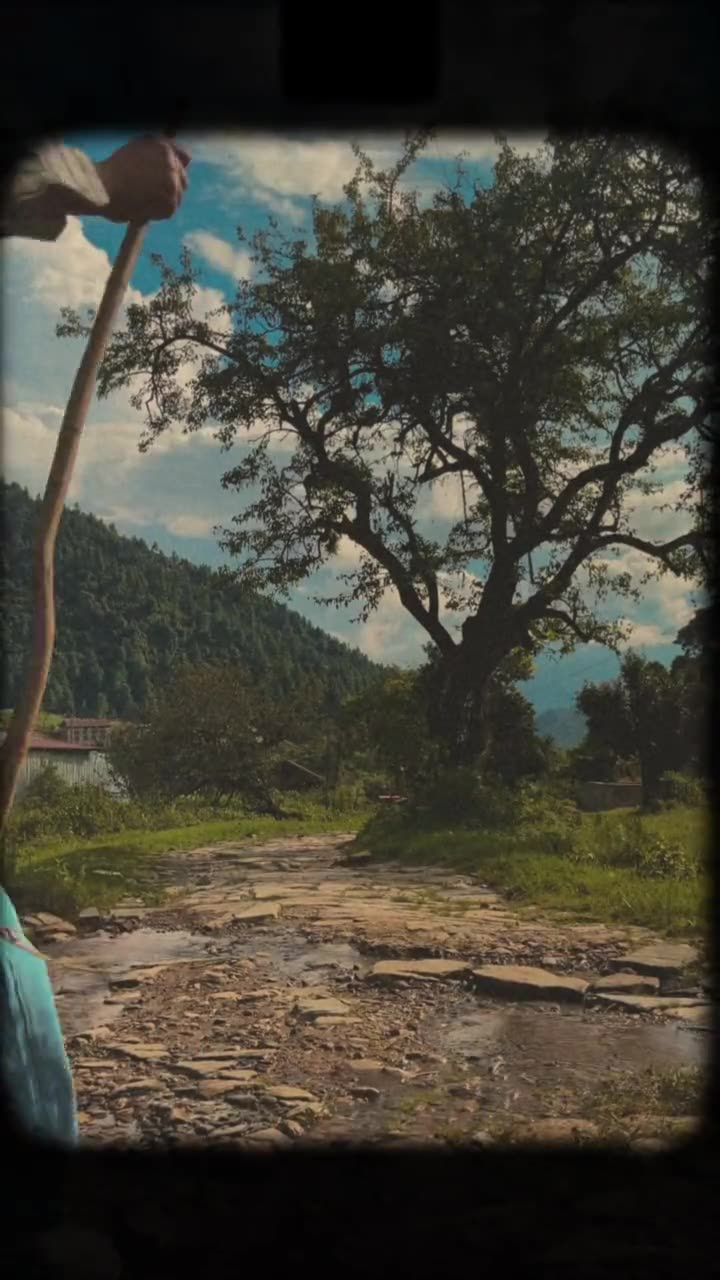
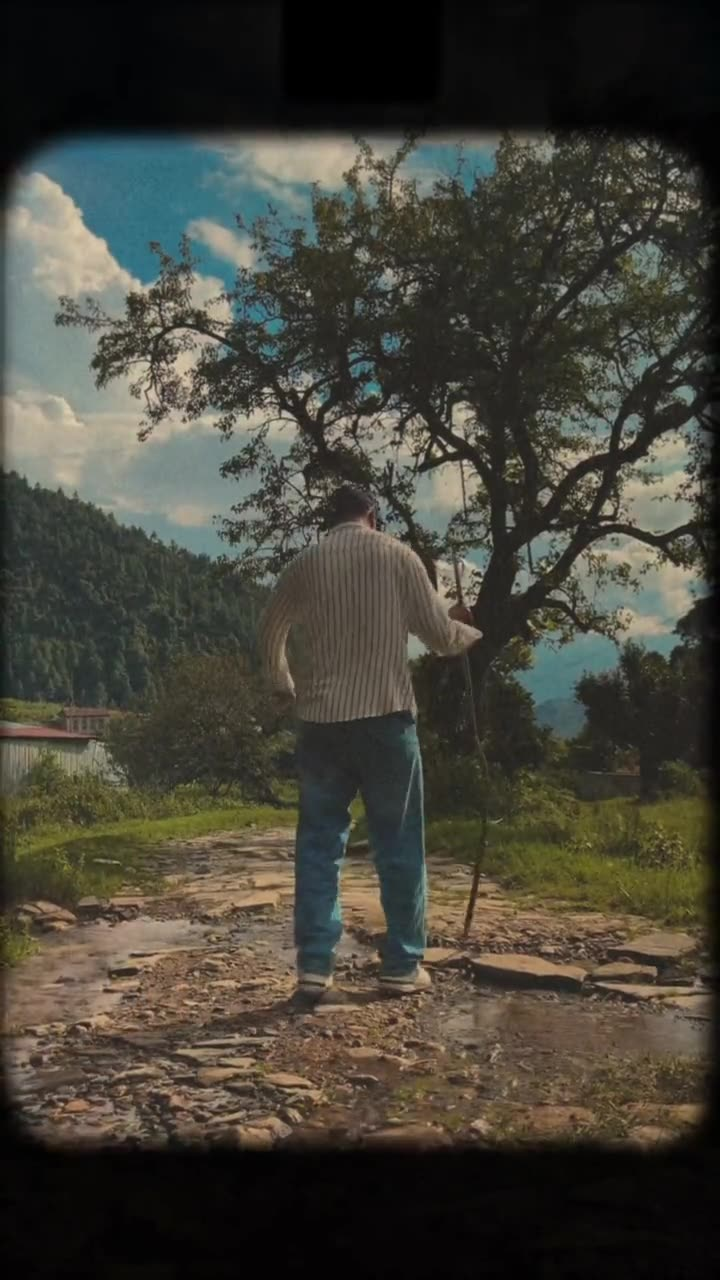
Home: sketchbook teaser linking into the gallery; brighter Chitlang video poster

diff --git a/index.html b/index.html
@@ -471,6 +471,40 @@
             .v-card { min-height: 0; }
         }
 
+        /* ── SKETCHBOOK TEASER ── */
+        .sketch-teaser {
+            padding: 88px 0; border-top: 1px solid var(--line);
+            background-image: radial-gradient(rgba(28,26,23,0.10) 1px, transparent 1.2px); background-size: 22px 22px;
+        }
+        .st-grid { display: grid; grid-template-columns: 1fr 1.6fr; gap: 56px; align-items: center; }
+        .st-copy h3 { font-family: var(--serif); font-weight: 400; font-size: clamp(1.8rem, 3.4vw, 2.5rem); letter-spacing: -0.02em; line-height: 1.12; margin-bottom: 14px; }
+        .st-copy h3 em { font-style: italic; color: var(--accent); }
+        .st-copy p { color: var(--ink-2); line-height: 1.8; margin-bottom: 24px; }
+        .st-copy a {
+            font-family: var(--mono); font-size: 0.76rem; letter-spacing: 0.04em; color: var(--accent);
+            text-decoration: none; border-bottom: 1px solid var(--accent); padding-bottom: 2px;
+        }
+        .st-pins { display: grid; grid-template-columns: repeat(3, 1fr); gap: 22px; align-items: start; }
+        .st-pins a {
+            display: block; background: #fff; padding: 9px 9px 12px; position: relative;
+            box-shadow: 0 1px 2px rgba(28,26,23,0.08), 0 10px 24px rgba(28,26,23,0.09);
+            transform: rotate(var(--r)); transition: transform .45s cubic-bezier(.2,.7,.3,1), box-shadow .45s;
+            text-decoration: none; color: var(--ink);
+        }
+        .st-pins a::before {
+            content: ''; position: absolute; top: -9px; left: 50%; width: 70px; height: 20px; margin-left: -35px;
+            background: var(--tape); transform: rotate(calc(var(--r) * -3));
+        }
+        .st-pins a:hover { transform: rotate(0) translateY(-6px); box-shadow: 0 20px 40px rgba(28,26,23,0.16); }
+        .st-pins img { width: 100%; aspect-ratio: 3/4; object-fit: cover; display: block; }
+        .st-pins span { display: block; font-family: var(--serif); font-style: italic; font-size: 0.82rem; margin-top: 8px; line-height: 1.35; }
+        .st-pins a:nth-child(2) { margin-top: 28px; }
+        @media (max-width: 800px) {
+            .st-grid { grid-template-columns: 1fr; gap: 36px; }
+            .st-pins { gap: 12px; }
+            .st-pins span { font-size: 0.72rem; }
+        }
+
         /* ── FIELD NOTES (JHAPA / ILLAM) ── */
         #journal { background: var(--paper-2); }
 
@@ -1511,6 +1545,33 @@ body::after { content: ''; position: fixed; inset: 0; z-index: 9999; pointer-eve
         </div>
     </div>
 </section>
+
+<!-- SKETCHBOOK TEASER -->
+<div class="sketch-teaser">
+    <div class="wrap st-grid">
+        <div class="st-copy rv">
+            <div class="kicker">From the sketchbook</div>
+            <h3>When I'm not shipping, <em>I'm shading.</em></h3>
+            <p>Pencil lines drawn between deploys, at a resort railing, in the office art hour. The whole wall —
+                plus Chitlang, Jhapa, Ilam, the classroom and the rest — hangs in the gallery, ten rooms deep.</p>
+            <a href="/gallery/#sketchbook">Walk through the gallery →</a>
+        </div>
+        <div class="st-pins rv">
+            <a href="/gallery/#sketchbook" style="--r:-2deg; --tape: rgba(47,93,138,0.30)">
+                <img src="images/art/resort-plein-air.jpg" alt="Pencil drawing of a resort held up in front of the real view" loading="lazy"/>
+                <span>Drew the resort, then held it up to the real thing.</span>
+            </a>
+            <a href="/gallery/#sketchbook" style="--r:1.5deg; --tape: rgba(217,169,58,0.42)">
+                <img src="images/art/naxa-butterfly-hand.jpg" alt="Pencil drawing of a butterfly landing on a hand" loading="lazy"/>
+                <span>A butterfly lands on a hand.</span>
+            </a>
+            <a href="/gallery/#sketchbook" style="--r:-1deg; --tape: rgba(168,57,46,0.26)">
+                <img src="images/art/pocket-sketchbook-house.jpg" alt="Pencil sketch of a crooked cottage" loading="lazy"/>
+                <span>A messy little house, pocket sketchbook.</span>
+            </a>
+        </div>
+    </div>
+</div>
 
 <!-- NOW -->
 <section id="now">
